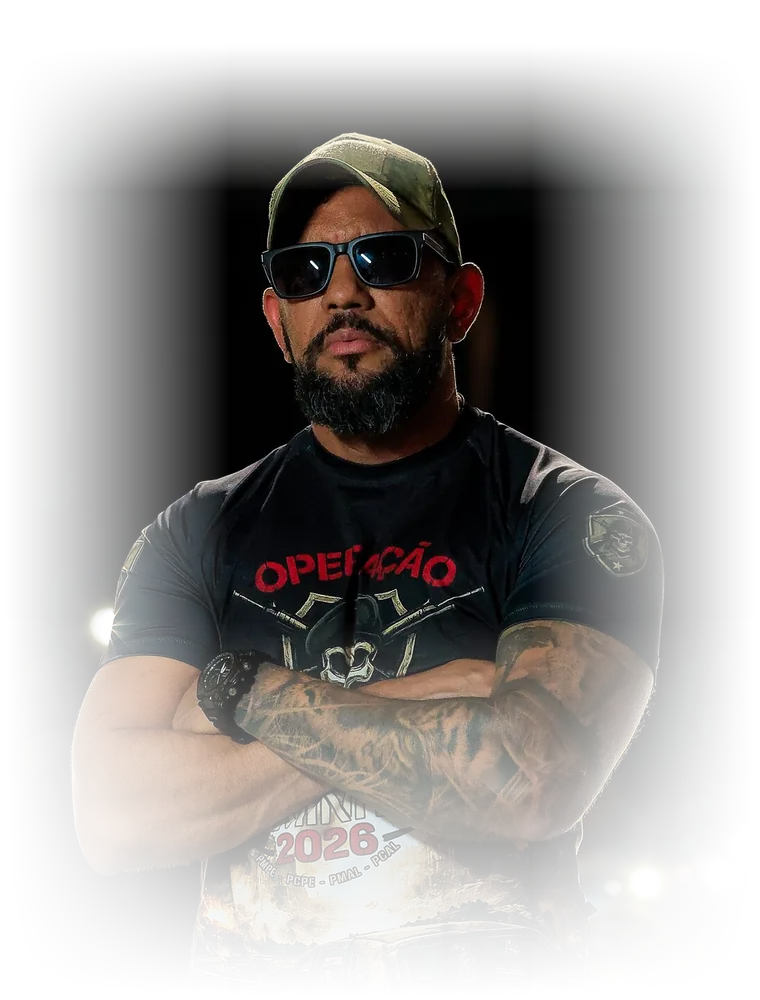
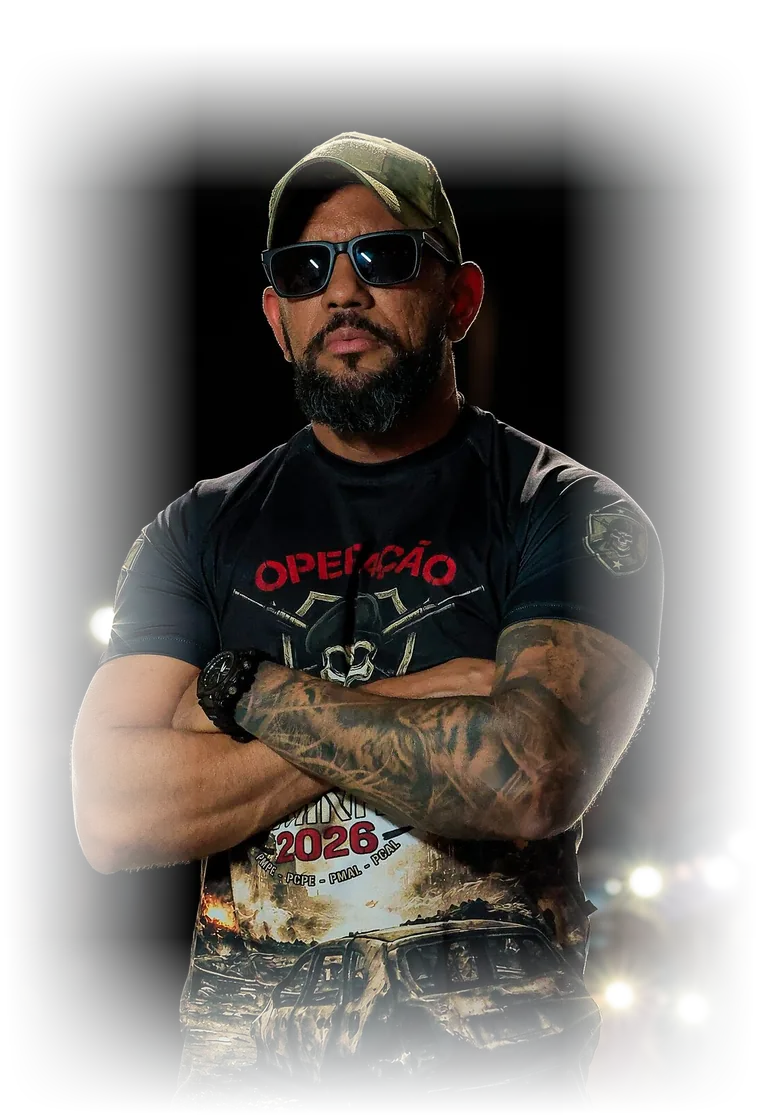
Hero: Everton mais alto, tronco e braços cruzados acima dos tablets

diff --git a/styles.css b/styles.css
@@ -187,9 +187,9 @@ input,button,textarea,select{font-family:inherit;font-size:1rem}
 /* Everton atrás dos tablets: o degradê de transparência já vem embutido no
    everton-hero.webp, então as bordas somem no fundo sem máscara CSS. O padding-top do .hero__product abre o
    espaço da cabeça; os tablets sobem por cima do tronco. */
-.hero__product--everton{padding-top:14rem}
+.hero__product--everton{padding-top:27rem}
 .hero__everton{position:absolute;z-index:0;top:0;left:50%;transform:translateX(-50%);
-  width:82%;max-width:440px;height:auto;pointer-events:none}
+  width:80%;max-width:420px;height:auto;pointer-events:none}
 .hero__seal{position:relative;z-index:2;margin-top:-1.1rem;
   display:inline-flex;align-items:center;gap:.45rem;
   background:linear-gradient(180deg,var(--red),var(--red-dark));
@@ -473,8 +473,8 @@ input,button,textarea,select{font-family:inherit;font-size:1rem}
   .hero__mock{width:auto;max-width:100%;max-height:30vh}
   /* o leque é paisagem: limitar pela altura o deixaria estreito demais */
   .hero__mock--combo{width:100%;max-height:none}
-  .hero__product--everton{padding-top:11.5rem}
-  .hero__everton{width:72%;max-width:300px}
+  .hero__product--everton{padding-top:18.5rem}
+  .hero__everton{width:80%;max-width:300px}
 
   /* preço e botão logo abaixo do produto; os bullets viram reforço no fim */
   .price{order:1;margin-bottom:.7rem;padding:.9rem 1rem}

diff --git a/index.html b/index.html
@@ -63,7 +63,7 @@
 
       <div class="hero__product hero__product--everton">
         <span class="hero__glow" aria-hidden="true"></span>
-        <img class="hero__everton" src="assets/everton-hero.webp" width="760" height="1000"
+        <img class="hero__everton" src="assets/everton-hero.webp" width="760" height="1116"
              fetchpriority="high" alt="Prof. Everton Mota, da CPPEM Concursos" />
         <img class="hero__mock hero__mock--combo" src="assets/combo.webp" width="906" height="582"
              fetchpriority="high"
